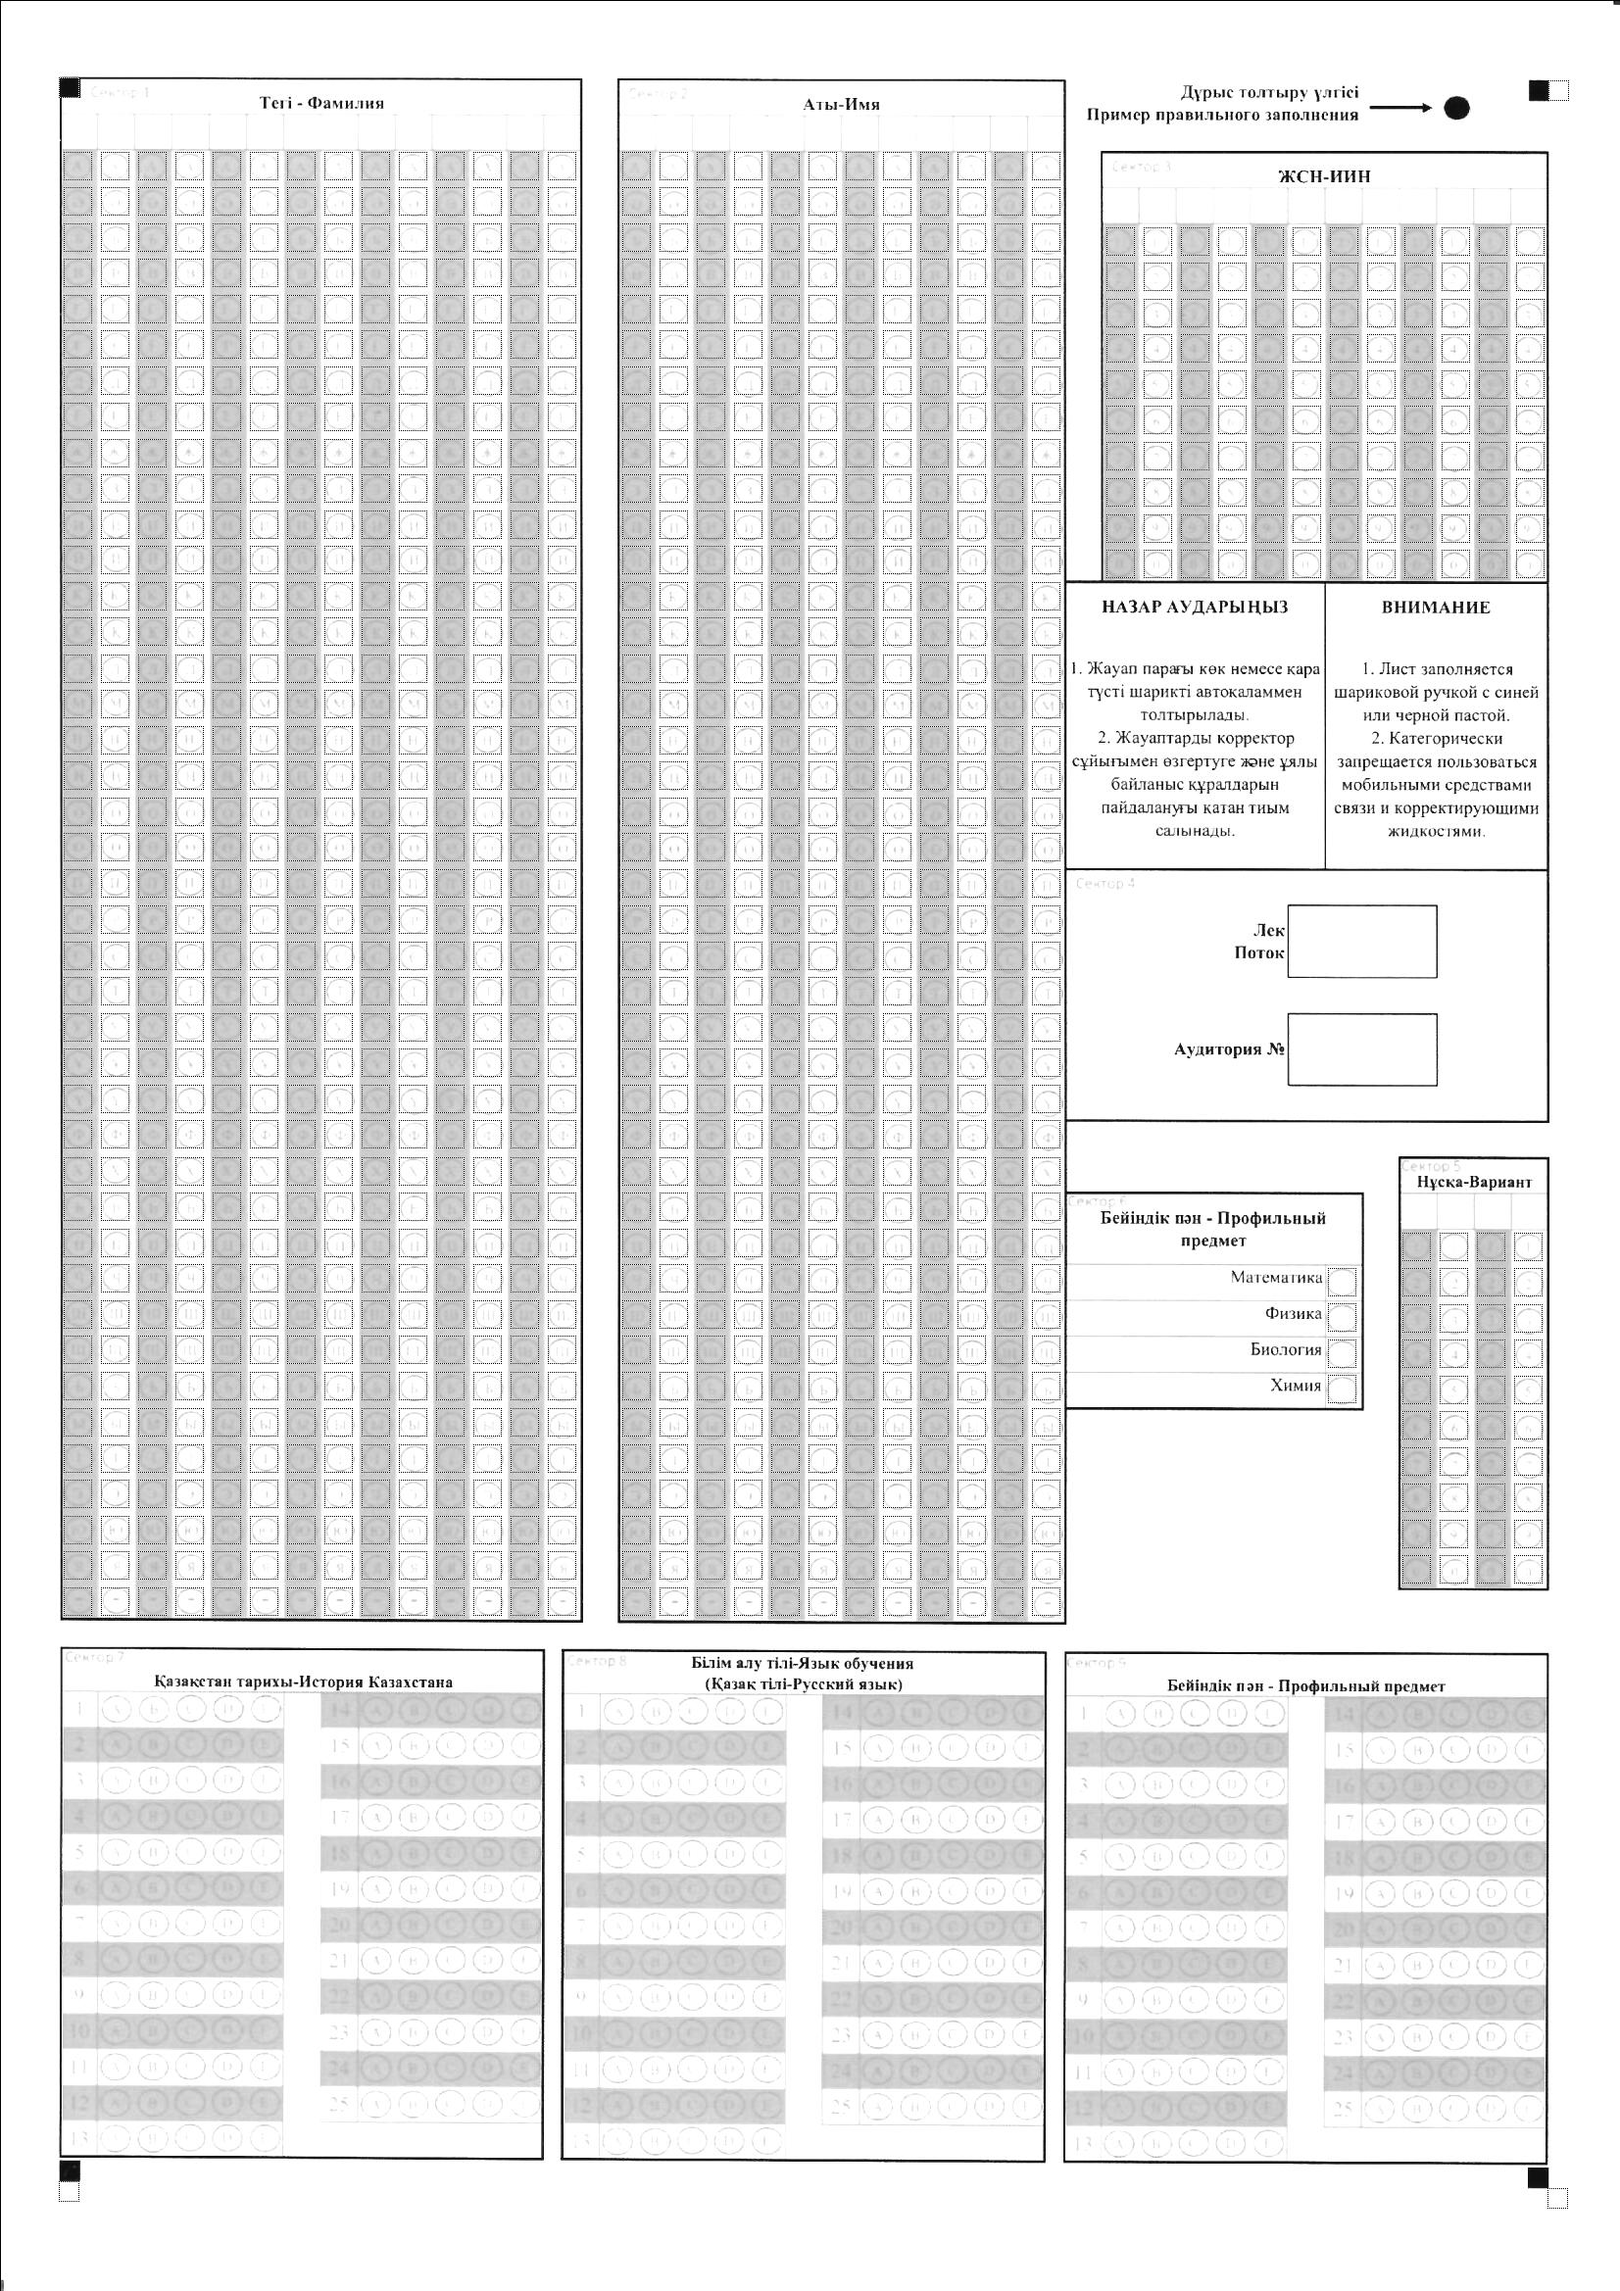
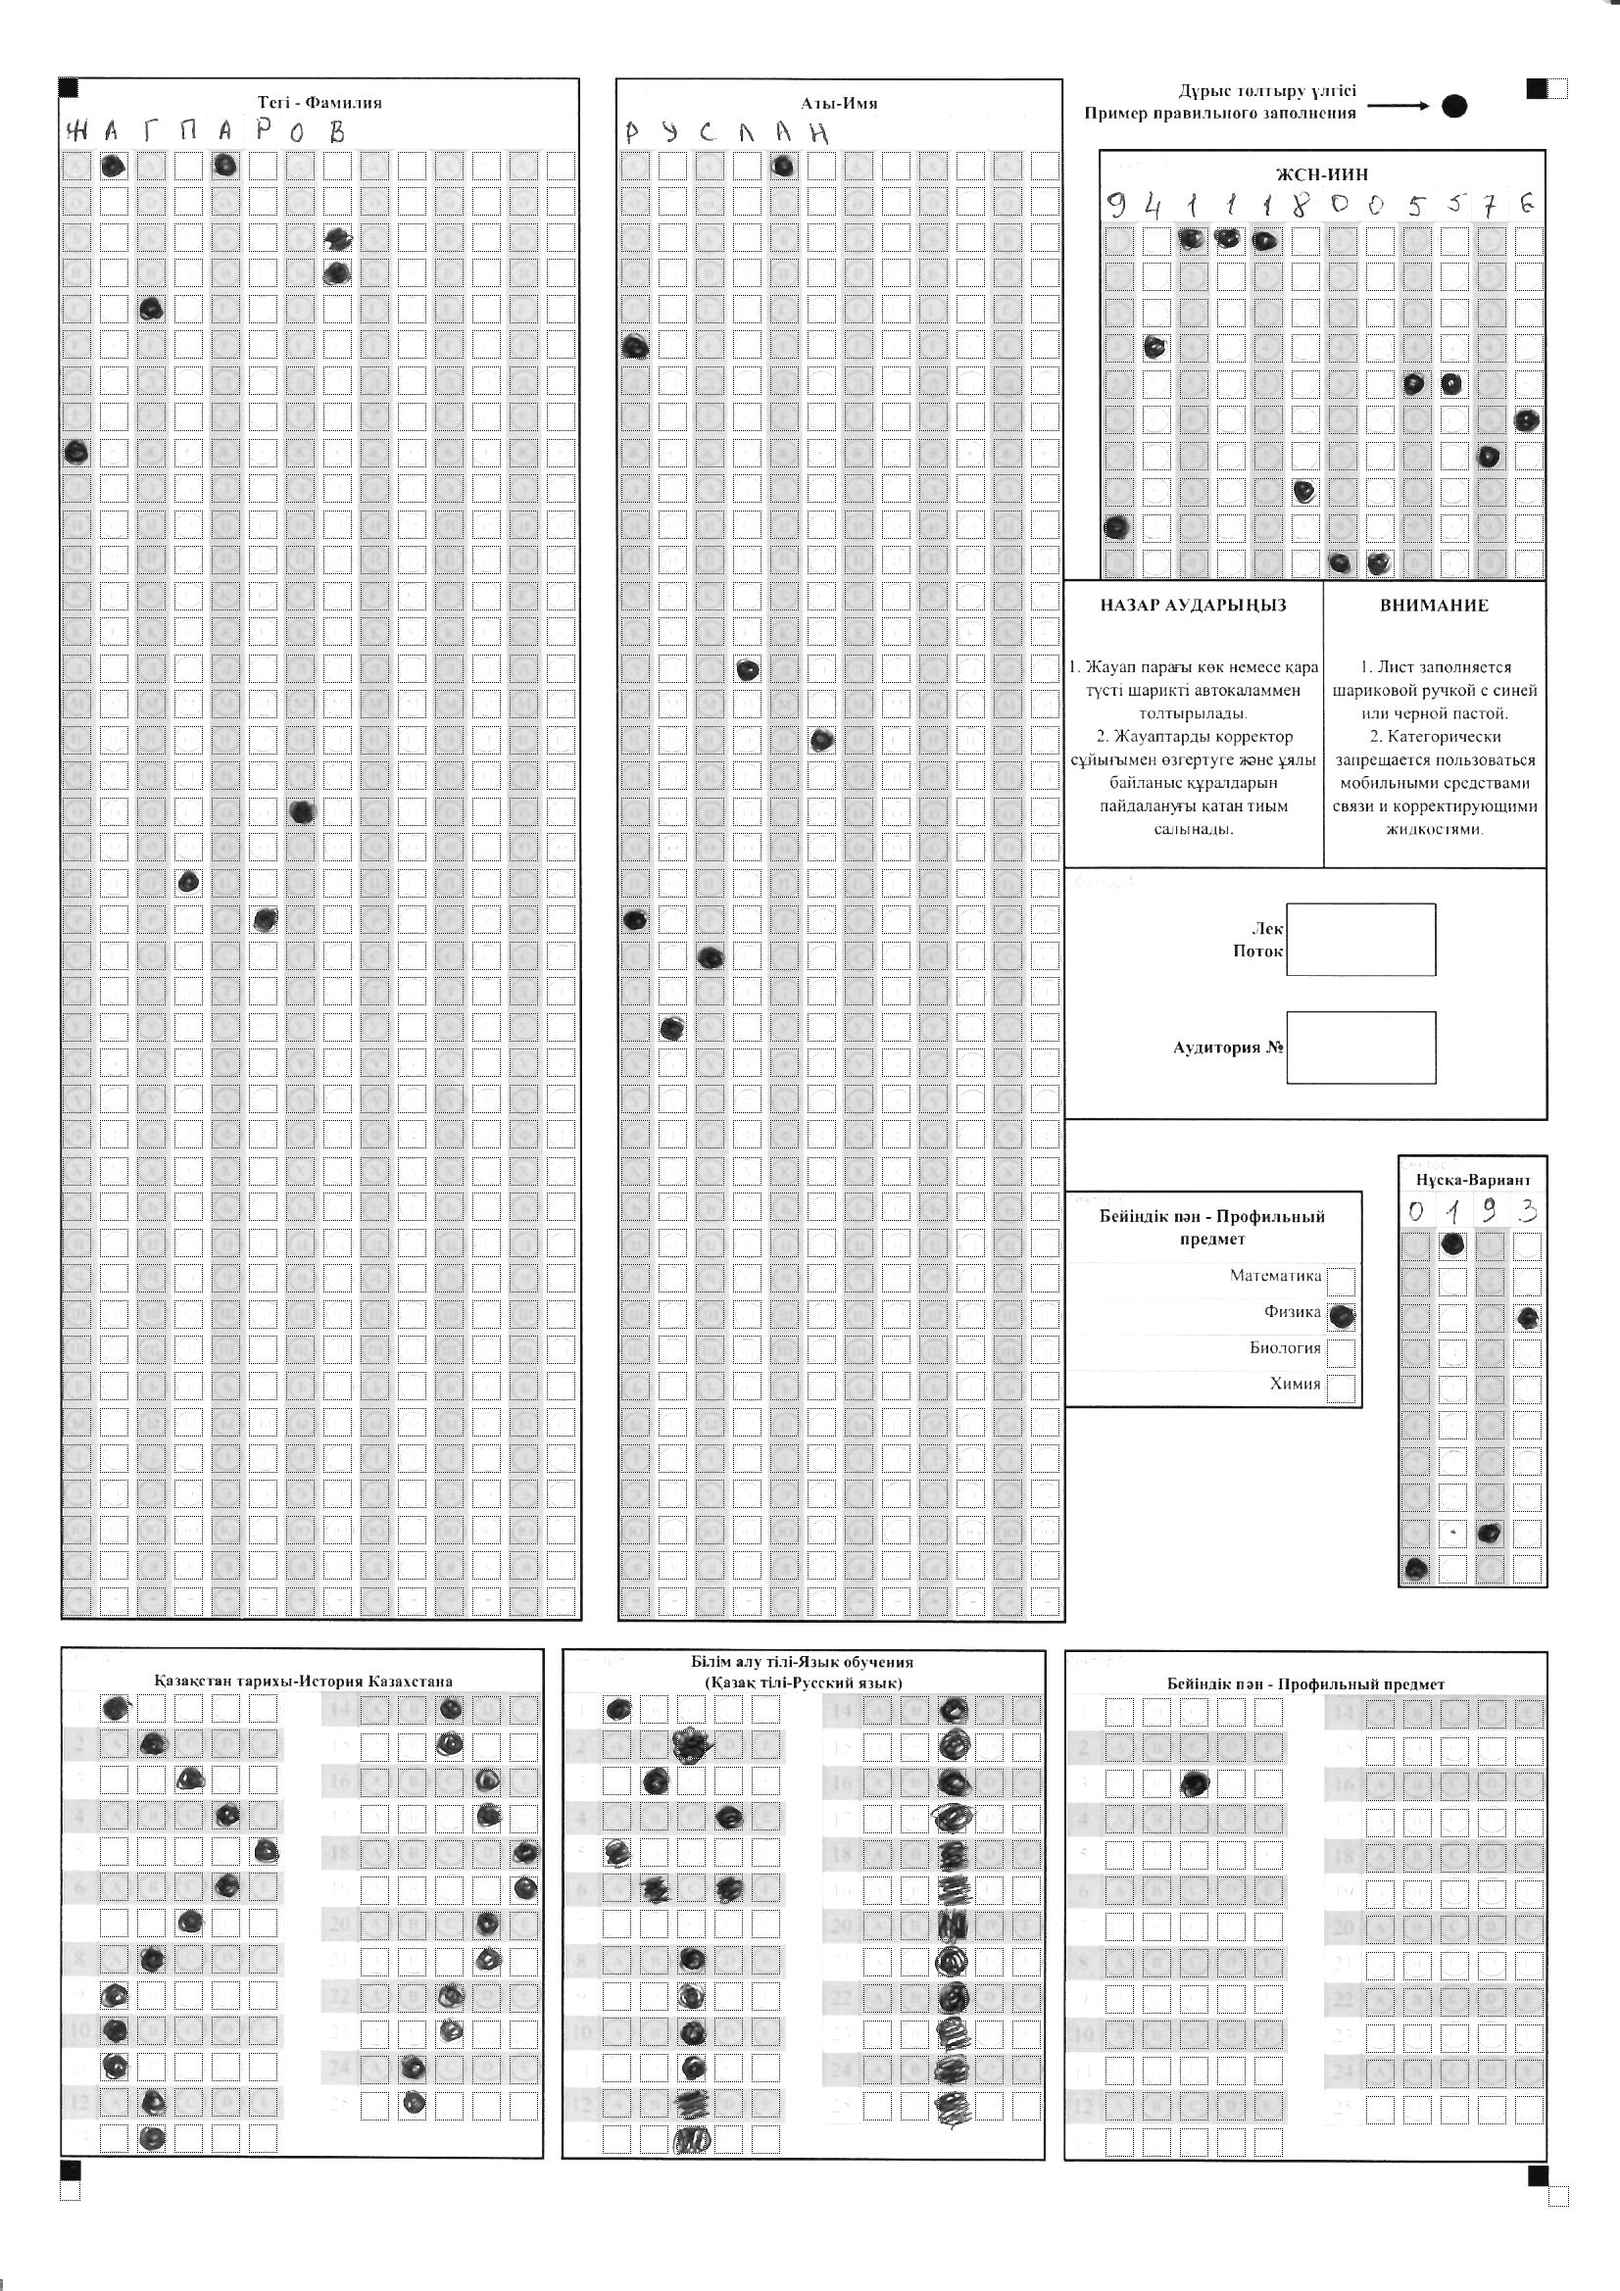
pageMaker commit

Changed region(s): [[0.0309, 0.0312, 0.9564, 0.9679]]

diff --git a/src/main/java/PageScanner.java b/src/main/java/PageScanner.java
@@ -23,6 +23,8 @@ public class PageScanner {
     public static int[] botleft = new int[2];
     public static int[] botright = new int[2];
     public static int[] ellipse = new int[2];
+    public static int minellipce = 110000;
+    public static String error = "";
     public static void rotate(String res) throws IOException {
         File file = new File(res);
         BufferedImage bufferedImage = ImageIO.read(file);
@@ -30,29 +32,29 @@ public class PageScanner {
         Graphics g = image.getGraphics();
         g.drawImage( bufferedImage, 0, 0, null );
         g.dispose();
-        RescaleOp rescaleOp = new RescaleOp(1.1f, 15, null);
+        RescaleOp rescaleOp = new RescaleOp(1.2f, 15, null);
         rescaleOp.filter(image, image);
         int mintl = 1000000, mintr = 1000000, minbl = 1000000, minbr = 1000000, minell = 100000, width = image.getWidth() - 23, height = image.getHeight() - 23;
         raster = image.getRaster();
         for (int x = 0; x < 150; x++){
             for (int y = 0; y < 150; y++){
-                if (mintl > checkRectanle(x, y)){
-                    mintl = checkRectanle(x, y);
+                if (mintl > checkRectangle(x, y)){
+                    mintl = checkRectangle(x, y);
                     topleft[0] = x;
                     topleft[1] = y;
                 }
-                if (mintr > checkRectanle(width - x, y)){
-                    mintr = checkRectanle(width - x, y);
+                if (mintr > checkRectangle(width - x, y)){
+                    mintr = checkRectangle(width - x, y);
                     topright[0] = width - x + 21;
                     topright[1] = y;
                 }
-                if (minbl > checkRectanle(x, height - y)){
-                    minbl = checkRectanle(x, height - y);
+                if (minbl > checkRectangle(x, height - y)){
+                    minbl = checkRectangle(x, height - y);
                     botleft[0] = x;
                     botleft[1] = height - y + 21;
                 }
-                if (minbr > checkRectanle(width - x, height - y)){
-                    minbr = checkRectanle(width - x, height - y);
+                if (minbr > checkRectangle(width - x, height - y)){
+                    minbr = checkRectangle(width - x, height - y);
                     botright[0] = width - x + 21;
                     botright[1] = height - y + 21;
                 }
@@ -111,8 +113,15 @@ public class PageScanner {
         System.out.println(getSection3());
         System.out.println(getSection5());
         System.out.println(getSection6());
+        String section7 = getSection7891(1.5, 8) + getSection7892(8.5, 10);
+        System.out.println("Section7 " + section7.length() + ":" + section7);
+        String section8 = getSection7891(15, 9) + getSection7892(22, 10);
+        System.out.println("Section8 " + section8.length() + ":" + section8);
+        String section9 = getSection7891(28.5, 12) + getSection7892(35.5, 14);
+        System.out.println("Section9 " + section9.length() + ":" + section9);
         gridImage.setData(raster);
         ImageIO.write(gridImage, "jpg", new File("123.jpg"));
+        System.out.println("Error:" + error);
     }
     public static void scan(){
         Imaging imaging = new Imaging("myApp", 0);
@@ -158,7 +167,12 @@ public class PageScanner {
         String res = "";
         int x = topleft[0] + (int)(38*0.5), y = topleft[1] + (int)(36*2.5);
         for (int i = 0; i < 14; i++){
-            res += getColumn12(x,y);
+            if (getColumn12(x,y).length() > 1) {
+                error += "\nОшибка в Секторе 1 и Колонке " + (i + 1);
+                res += " ";
+            } else {
+                res += getColumn12(x,y);
+            }
             x += 38;
         }
         return res;
@@ -167,7 +181,12 @@ public class PageScanner {
         String res = "";
         int x = topleft[0] + (int)(38*15.5), y = topleft[1] + (int)(36*2.5);
         for (int i = 0; i < 12; i++){
-            res += getColumn12(x,y);
+            if (getColumn12(x,y).length() > 1) {
+                error += "\nОшибка в Секторе 2 и Колонке " + (i + 1);
+                res += " ";
+            } else {
+                res += getColumn12(x,y);
+            }
             x += 38;
         }
         return res;
@@ -176,7 +195,12 @@ public class PageScanner {
         String res = "";
         int x = topleft[0] + (int)(38*28.5), y = topleft[1] + (int)(36*4.5) + 5;
         for (int i = 0; i < 12; i++){
-            res += getColumn35(x,y);
+            if (getColumn35(x,y).length() > 1) {
+                error += "\nОшибка в Секторе 3 и Колонке " + (i + 1);
+                res += " ";
+            } else {
+                res += getColumn35(x,y);
+            }
             x += 38;
         }
         return res;
@@ -185,7 +209,12 @@ public class PageScanner {
         String res = "";
         int x = topleft[0] + (int)(38*36.5) - 2, y = topleft[1] + (int)(36*33) + 5;
         for (int i = 0; i < 4; i++){
-            res += getColumn35(x,y);
+            if (getColumn35(x,y).length() > 1) {
+                error += "\nОшибка в Секторе 5 и Колонке " + (i + 1);
+                res += " ";
+            } else {
+                res += getColumn35(x,y);
+            }
             x += 38;
         }
         return res;
@@ -193,10 +222,8 @@ public class PageScanner {
     public static String getSection6(){
         String result = "";
         int x = topleft[0] + (int)(38*34.5) - 2, y = topleft[1] + (int)(36*34) + 5;
-        int minellipce = 80000;
         for (int i = 1; i < 5; i++){
             if (minellipce > checkEllipse(x, y)){
-                minellipce = checkEllipse(x, y);
                 result += getDisseplinName(i);
             }
             int[] XoY = new int[2];
@@ -208,9 +235,65 @@ public class PageScanner {
             }
             y += 36;
         }
+        if (result.length() > 10){
+            error += "\nОшибка в Секторе 6";
+            result = "";
+        }
         return result;
     }
-    public static int checkRectanle(int x, int y) {
+    public static String getSection7891(double d, int plusY){
+        String res = "";
+        int x = topleft[0] + (int)(38*d), y = topleft[1] + (int)(36*46) + plusY;
+        for (int i = 1; i < 14; i++){
+            if (getColumn789(x,y).length() > 1) {
+                if (d < 10) {
+                    error += "\nОшибка в Секторе 7 и вопрос " + i;
+                } else if(d < 25){
+                    error += "\nОшибка в Секторе 8 и вопрос " + i;
+                } else if(d < 37){
+                    error += "\nОшибка в Секторе 9 и вопрос " + i;
+                }
+                res += " ";
+            } else {
+                res += getColumn789(x,y);
+            }
+            if (i % 2 == 0){
+                y++;
+            }
+            if (i % 7 == 0){
+                y++;
+            }
+            y += 36;
+        }
+        return res;
+    }
+    public static String getSection7892(double d, int plusY){
+        String res = "";
+        int x = topleft[0] + (int)(38*d), y = topleft[1] + (int)(36*46) + plusY;
+        for (int i = 14; i < 26; i++){
+            if (getColumn789(x,y).length() > 1) {
+                if (d < 10) {
+                    error += "\nОшибка в Секторе 7 и вопрос " + i;
+                } else if(d < 25){
+                    error += "\nОшибка в Секторе 8 и вопрос " + i;
+                } else if(d < 37){
+                    error += "\nОшибка в Секторе 9 и вопрос " + i;
+                }
+                res += " ";
+            } else {
+                res += getColumn789(x,y);
+            }
+            if (i % 2 == 0){
+                y++;
+            }
+            if (i % 7 == 0){
+                y++;
+            }
+            y += 36;
+        }
+        return res;
+    }
+    public static int checkRectangle(int x, int y) {
         int sum = 0;
         for (int i = x; i < x + 21; i++){
             for (int j = y; j < y + 21; j++){
@@ -278,11 +361,8 @@ public class PageScanner {
     }
     public static String getColumn12(int x, int y){
         String result = "";
-        int minellipce = 80000;
         for (int i = 1; i < 42; i++){
-
             if (minellipce > checkEllipse(x, y)){
-                minellipce = checkEllipse(x, y);
                 result += getChar(i - 1);
             }
             int[] XoY = new int[2];
@@ -301,10 +381,8 @@ public class PageScanner {
     }
     public static String getColumn35(int x, int y){
         String result = "";
-        int minellipce = 80000;
         for (int i = 1; i < 11; i++){
             if (minellipce > checkEllipse(x, y)){
-                minellipce = checkEllipse(x, y);
                 result += getNumber(i - 1);
             }
             int[] XoY = new int[2];
@@ -319,6 +397,21 @@ public class PageScanner {
             }
             y += 36;
         }
+        return result;
+    }
+    public static String getColumn789(int x, int y){
+        String result = "";
+        for (int i = 1; i < 6; i++){
+            if (minellipce > checkEllipse(x, y)){
+                result += getABCDE(i - 1);
+            }
+            int[] XoY = new int[2];
+            XoY[0] = x - 14;
+            XoY[1] = y - 14;
+            rectangle(XoY, 28);
+            x += 38;
+        }
+        if (result == "") result = " ";
         return result;
     }
     public static char getChar(int i){
@@ -390,6 +483,16 @@ public class PageScanner {
             case 4: return "Химия";
         }
         return "";
+    }
+    public static char getABCDE(int i){
+        switch (i){
+            case 0: return 'A';
+            case 1: return 'B';
+            case 2: return 'C';
+            case 3: return 'D';
+            case 4: return 'E';
+        }
+        return ' ';
     }
 
 }

diff --git a/src/main/java/SimpleWindow.java b/src/main/java/SimpleWindow.java
@@ -124,7 +124,7 @@ public class SimpleWindow extends JFrame {
                     JOptionPane.WARNING_MESSAGE);
             //PageScanner.scan();
             try {
-                PageScanner.rotate("DocFile (1).jpg");
+                PageScanner.rotate("2019-05-28_140448.jpg");
             } catch (IOException e1) {
                 e1.printStackTrace();
             }
